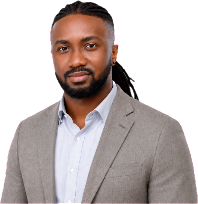
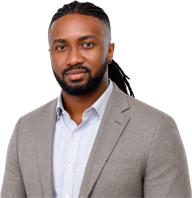
Rebuild the headshot from the full-size photo
The previous cutout came from a 250px export and was stretched 2-3x on
high-density screens. Re-cut it from the 1545x2000 original and serve
1x/2x/3x sizes via srcset. Also clean up the cutout's edges: a solid,
straight bottom edge instead of a fade, a firmer outline, and no
lavender background left between the locks of hair.

diff --git a/index.html b/index.html
@@ -48,7 +48,7 @@
         "givenName": "Dareem",
         "familyName": "Antoine",
         "url": "https://dkantoine.com/",
-        "image": "https://dkantoine.com/headshot.png",
+        "image": "https://dkantoine.com/headshot@3x.png",
         "email": "mailto:dkantoine@utk.edu",
         "jobTitle": "PhD Candidate in Economics",
         "affiliation": {
@@ -96,7 +96,7 @@
   <main id="main" tabindex="-1">
     <!-- Intro -->
     <section class="intro container" id="top" aria-labelledby="name">
-      <img class="headshot" src="headshot.png" width="198" height="204" alt="Portrait of Dareem K. Antoine">
+      <img class="headshot" src="headshot.png" srcset="headshot.png 1x, headshot@2x.png 2x, headshot@3x.png 3x" width="192" height="198" alt="Portrait of Dareem K. Antoine">
       <div class="intro-text">
         <h1 id="name">Dareem K. Antoine</h1>
         <p class="role">PhD Candidate in Economics</p>
